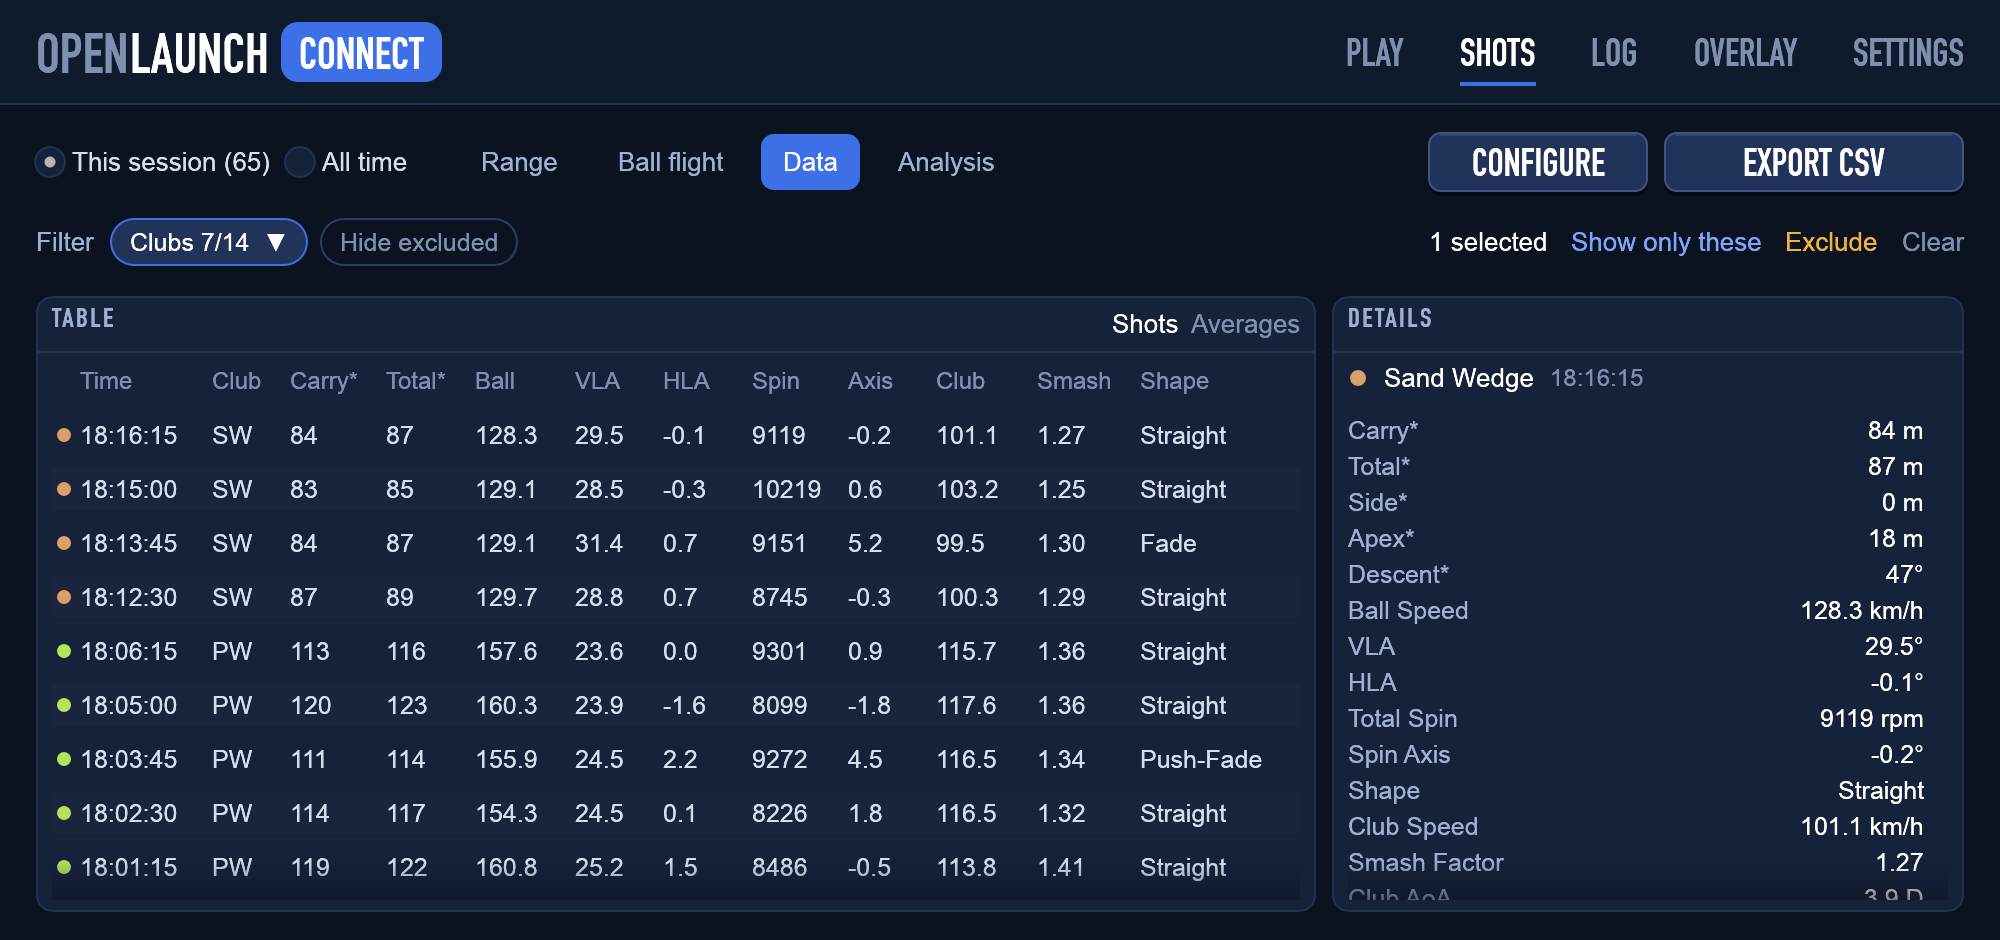
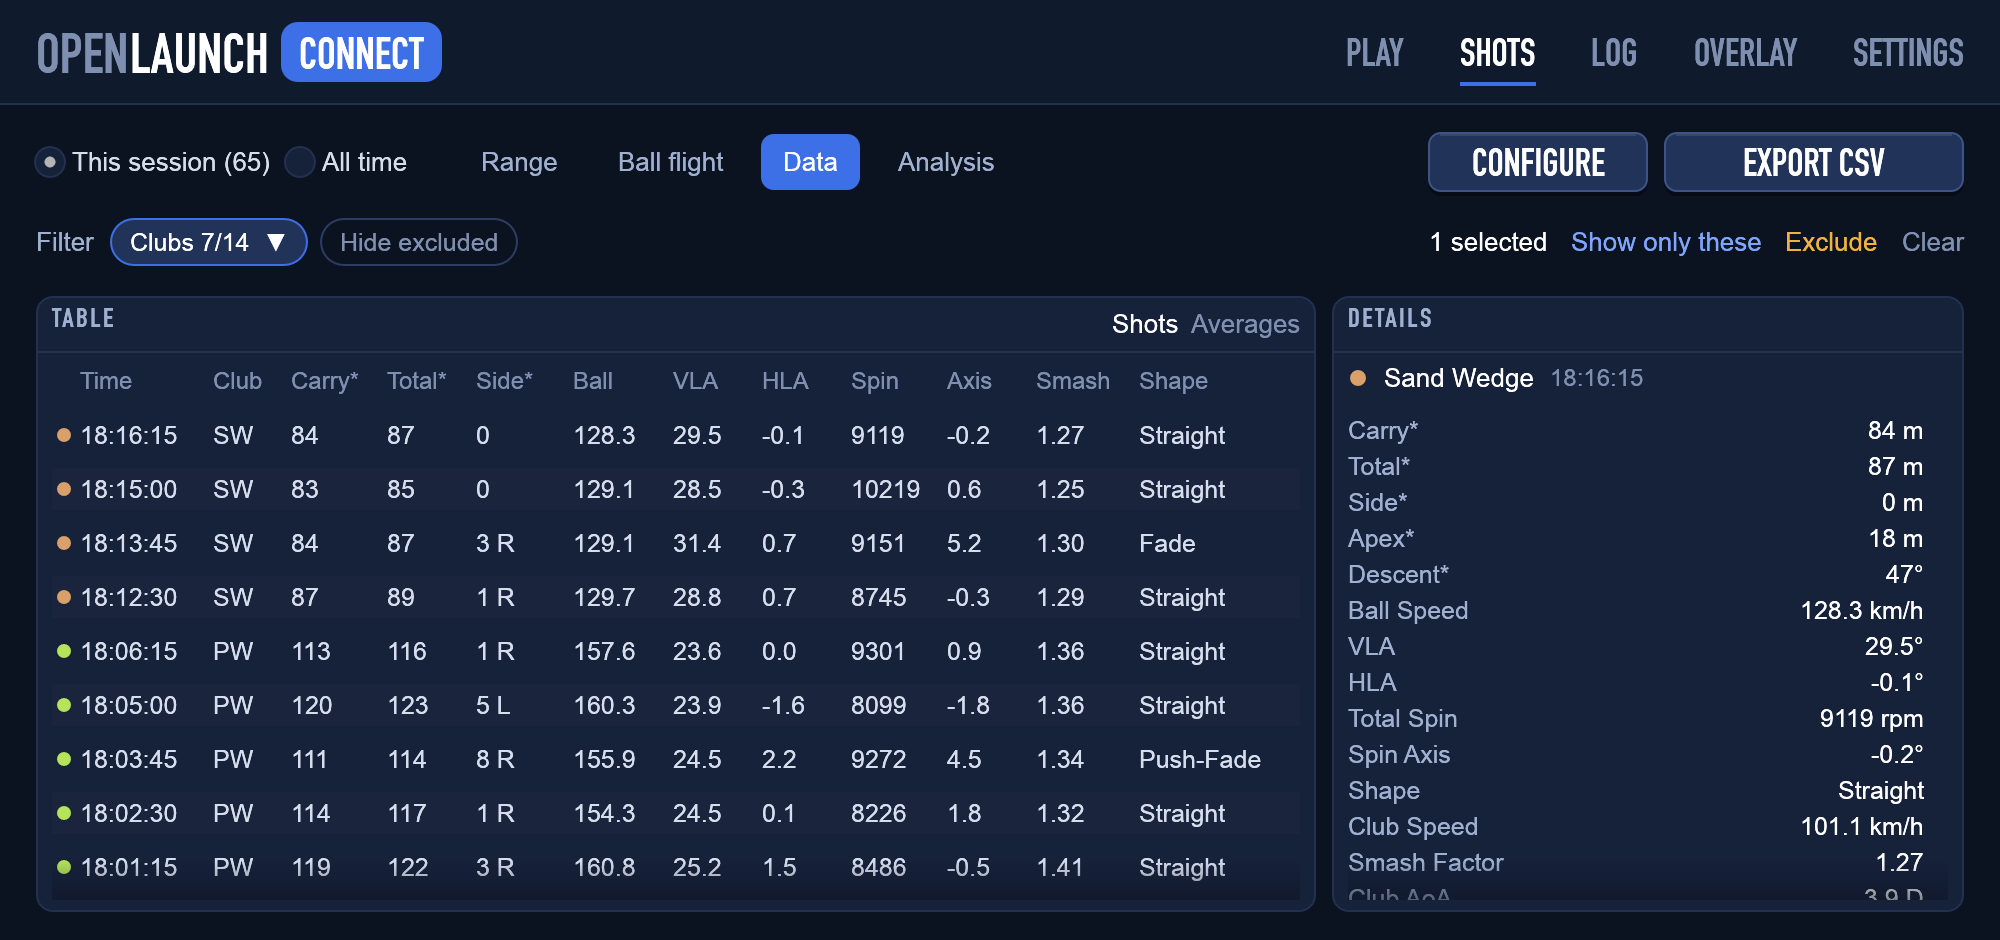
Tables: left/right deviation per shot, side and width per club
Shots table: Side* at the landing point ("8 R"). Averages: mean side
± spread and the width of the dispersion. Details' side at landing too.

diff --git a/src/bin/openlaunch-connect/explorer.rs b/src/bin/openlaunch-connect/explorer.rs
@@ -1257,6 +1257,11 @@ fn dispersion(ui: &mut egui::Ui, i: usize, total: bool, ctx: &TileCtx) -> Option
     draw_dots(ui, egui::Id::new(("dispersion", i)), rect, &dots)
 }
 
+/// Lateral distance for a table: "8 R", "3 L" or "0" (already in the unit shown).
+fn left_right(v: f64) -> String {
+    if v.abs() < 0.5 { "0".into() } else { format!("{:.0} {}", v.abs(), if v > 0.0 { "R" } else { "L" }) }
+}
+
 /// Lateral distance as "12 m R" / "3 yd L" (already in the unit shown).
 fn side_text(v: f64, u: Units) -> String {
     if v.abs() < 0.5 { format!("0 {}", u.dist_unit()) } else { format!("{:.0} {} {}", v.abs(), u.dist_unit(), if v > 0.0 { "R" } else { "L" }) }
@@ -1382,11 +1387,13 @@ fn shots_table(ui: &mut egui::Ui, i: usize, ctx: &TileCtx) -> Option<Key> {
     let carry = format!("{}*", tr("Carry"));
     let total = format!("{}*", tr("Total"));
     // Header, width of the values and priority (lower first) of every column.
-    let all: [(&str, f32, u8); 14] = [
+    let side = format!("{}*", tr("Side"));
+    let all: [(&str, f32, u8); 15] = [
         (tr("Time"), if ctx.all_time { 84.0 } else { 52.0 }, 0),
         (tr("Club"), 24.0, 0),
         (&carry, 28.0, 0),
         (&total, 28.0, 3),
+        (&side, 34.0, 2),
         (tr("Ball"), 36.0, 1),
         ("VLA", 30.0, 1),
         ("HLA", 30.0, 4),
@@ -1410,6 +1417,7 @@ fn shots_table(ui: &mut egui::Ui, i: usize, ctx: &TileCtx) -> Option<Key> {
             s.club_code.clone().unwrap_or_else(|| "–".into()),
             format!("{:.0}", u.dist(f.carry)),
             format!("{:.0}", u.dist(f.total)),
+            left_right(u.dist(f.carry_side)),
             format!("{:.1}", u.speed(s.ball.speed)),
             num(s.ball.vla, 1),
             num(s.ball.hla, 1),
@@ -1457,13 +1465,17 @@ fn averages_table(ui: &mut egui::Ui, i: usize, ctx: &TileCtx) {
     let dist = |v: f64| u.dist(v);
     let carry = format!("{}* ({})", tr("Carry"), u.dist_unit());
     let total = format!("{}* ({})", tr("Total"), u.dist_unit());
+    let side = format!("{}* ({})", tr("Side"), u.dist_unit());
+    let width = format!("{}* ({})", tr("Width"), u.dist_unit());
     let ball = format!("{} ({})", tr("Ball"), u.speed_unit());
     let club = format!("{} ({})", tr("Club"), u.speed_unit());
-    let all: [(&str, f32, u8); 12] = [
+    let all: [(&str, f32, u8); 14] = [
         (tr("Club"), 90.0, 0),
         (tr("Shots"), 20.0, 0),
         (&carry, 50.0, 0),
         (&total, 50.0, 2),
+        (&side, 56.0, 1),
+        (&width, 30.0, 1),
         (&ball, 70.0, 1),
         (&club, 70.0, 4),
         (tr("Smash"), 70.0, 3),
@@ -1482,6 +1494,11 @@ fn averages_table(ui: &mut egui::Ui, i: usize, ctx: &TileCtx) {
             c.shots.to_string(),
             fmt(c.carry, 0, &dist, c.shots),
             fmt(c.total, 0, &dist, c.shots),
+            c.side.map_or("–".into(), |st| {
+                let mean = left_right(u.dist(st.mean));
+                if c.shots > 1 { format!("{mean} ±{:.0}", u.dist(st.sd)) } else { mean }
+            }),
+            c.side_width.map_or("–".into(), |w| format!("{:.0}", u.dist(w))),
             fmt(c.ball_speed, 1, &speed, c.shots),
             fmt(c.club_speed, 1, &speed, c.shots),
             fmt(c.smash, 2, &id, c.shots),
@@ -1537,7 +1554,7 @@ fn details(ui: &mut egui::Ui, shot: Option<&ShotRecord>, ctx: &TileCtx) {
     let mut values: Vec<(String, String)> = vec![
         (format!("{}*", tr("Carry")), format!("{:.0} {}", u.dist(f.carry), u.dist_unit())),
         (format!("{}*", tr("Total")), format!("{:.0} {}", u.dist(f.total), u.dist_unit())),
-        (format!("{}*", tr("Side")), side(f.total_side)),
+        (format!("{}*", tr("Side")), side(f.carry_side)),
         (format!("{}*", tr("Apex")), format!("{:.0} {}", u.dist(f.apex), u.dist_unit())),
         (format!("{}*", tr("Descent")), format!("{:.0}°", f.descent)),
         (tr("Ball Speed").into(), format!("{:.1} {}", u.speed(s.ball.speed), u.speed_unit())),

diff --git a/src/history.rs b/src/history.rs
@@ -420,6 +420,10 @@ pub struct ClubStats {
     /// Estimated carry and total distance in metres (see `flight`).
     pub carry: Option<Stat>,
     pub total: Option<Stat>,
+    /// Estimated deviation at the landing point in metres, right positive, and how far apart the
+    /// left-most and right-most landings are.
+    pub side: Option<Stat>,
+    pub side_width: Option<f64>,
 }
 
 /// Per-club statistics of the shots that aren't excluded, in order of first use.
@@ -450,6 +454,12 @@ pub fn club_stats(shots: &[ShotRecord]) -> Vec<ClubStats> {
                 tempo: Stat::of(group.iter().filter_map(|s| s.tempo.map(|t| t.ratio()))),
                 carry: Stat::of(flights.iter().map(|f| f.carry)),
                 total: Stat::of(flights.iter().map(|f| f.total)),
+                side: Stat::of(flights.iter().map(|f| f.carry_side)),
+                side_width: flights
+                    .iter()
+                    .map(|f| f.carry_side)
+                    .fold(None, |r: Option<(f64, f64)>, v| Some(r.map_or((v, v), |(lo, hi)| (lo.min(v), hi.max(v)))))
+                    .map(|(lo, hi)| hi - lo),
                 club_code: code,
             }
         })
@@ -540,6 +550,10 @@ mod tests {
         let (iron, driver) = (stats[0].carry.unwrap(), stats[1].carry.unwrap());
         assert!(iron.sd > 0.0 && driver.mean > iron.mean);
         assert!(stats[1].total.unwrap().mean > driver.mean);
+        // All test shots start 0.5° right with a 1° axis: right of the line, the same each time.
+        let side = stats[0].side.unwrap();
+        assert!(side.mean > 0.0, "right: {side:?}");
+        assert!(stats[0].side_width.unwrap() >= 0.0 && stats[1].side_width == Some(0.0), "one driver shot");
     }
 
     #[test]

diff --git a/src/i18n.rs b/src/i18n.rs
@@ -200,6 +200,7 @@ fn de(en: &str) -> Option<&'static str> {
         "Language" => "Sprache",
         "System" => "System",
         "Interface" => "Oberfläche",
+        "Width" => "Breite",
         "Shape" => "Schlagform",
         "Straight" => "Gerade",
         "Impact from the side" => "Treffmoment Seite",

diff --git a/CHANGELOG.md b/CHANGELOG.md
@@ -6,6 +6,11 @@ The format is based on [Keep a Changelog](https://keepachangelog.com/en/1.1.0/),
 
 ## [Unreleased]
 
+### Added
+- **Left/right in the tables:** the shots table shows where each ball landed left or right of the target line
+  (*Side\**, e.g. *8 R*), the averages per club the mean side ± spread and the *Width\** of the dispersion
+  (left-most to right-most landing). The details' *Side\** is now also at the landing point.
+
 ## [1.1.0] – 2026-10-21
 
 ### Added
